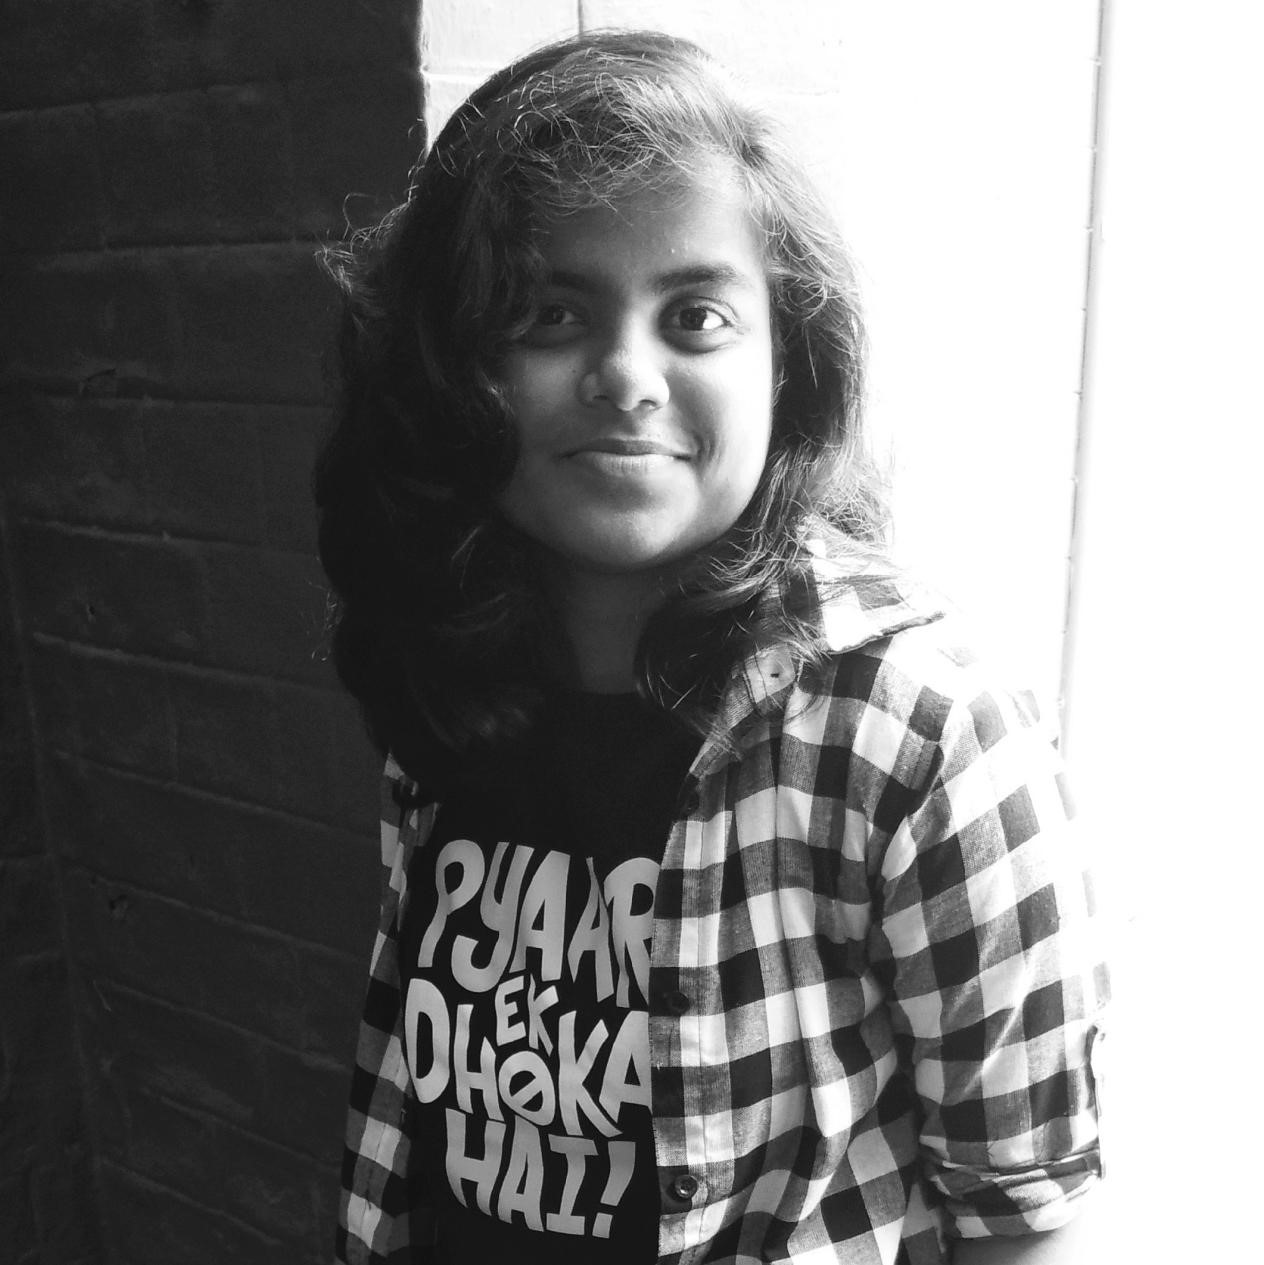
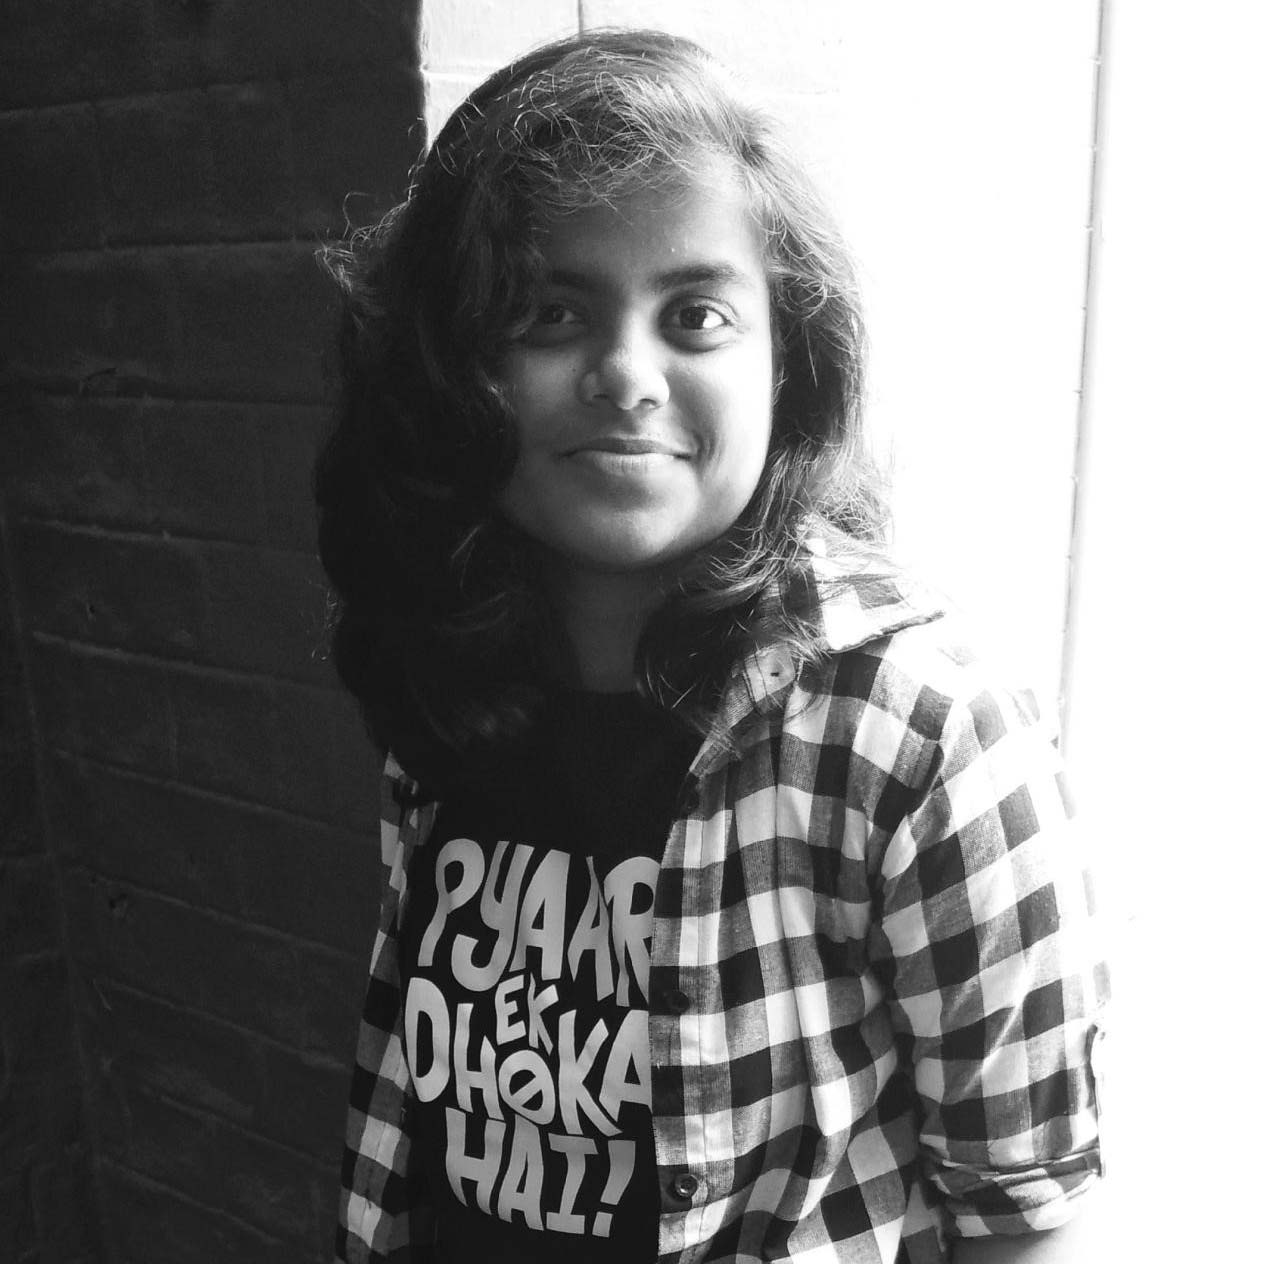
masthead fix

diff --git a/_pages/mastheaded4.md b/_pages/mastheaded4.md
@@ -19,7 +19,7 @@ feature_row3:
     title: "GOVIND GUPTA"
     excerpt: 'Majoring in economics, Govind is a melange of fickle passions. With his childhood sheltered in Kolkata, he never gets over his love for the life of that city even though he spent his adolescence in Bokaro and is now residing in the national capital. Gulzar and his lyrics lure him the most and he can listen to Yaman Kalyan for hours, even though he can never sing a line in tune. Govind loves the company of himself and watches doggo videos on Instagram. Narcissist? Not quite.'    
 feature_row4:
-  - image_path: https://github.com/TheMedley/TheMedley.github.io/raw/master/assets/masthead/shreyashi.png
+  - image_path: https://github.com/TheMedley/TheMedley.github.io/raw/master/assets/masthead/shreyashi.jpg
     alt: "SHREYASI BANERJEE"
     title: "SHREYASI BANERJEE"
     excerpt: 'Shreyasi Banerjee is a second year student of English at Hansraj College. A lover of poetry and music, she can often be seen petting dogs and trying to approach cats around campus. She is a proud Bengali, and as anyone who has known her will tell you, she will never stop praising her hometown of Kolkata, and its politics and food.'  
